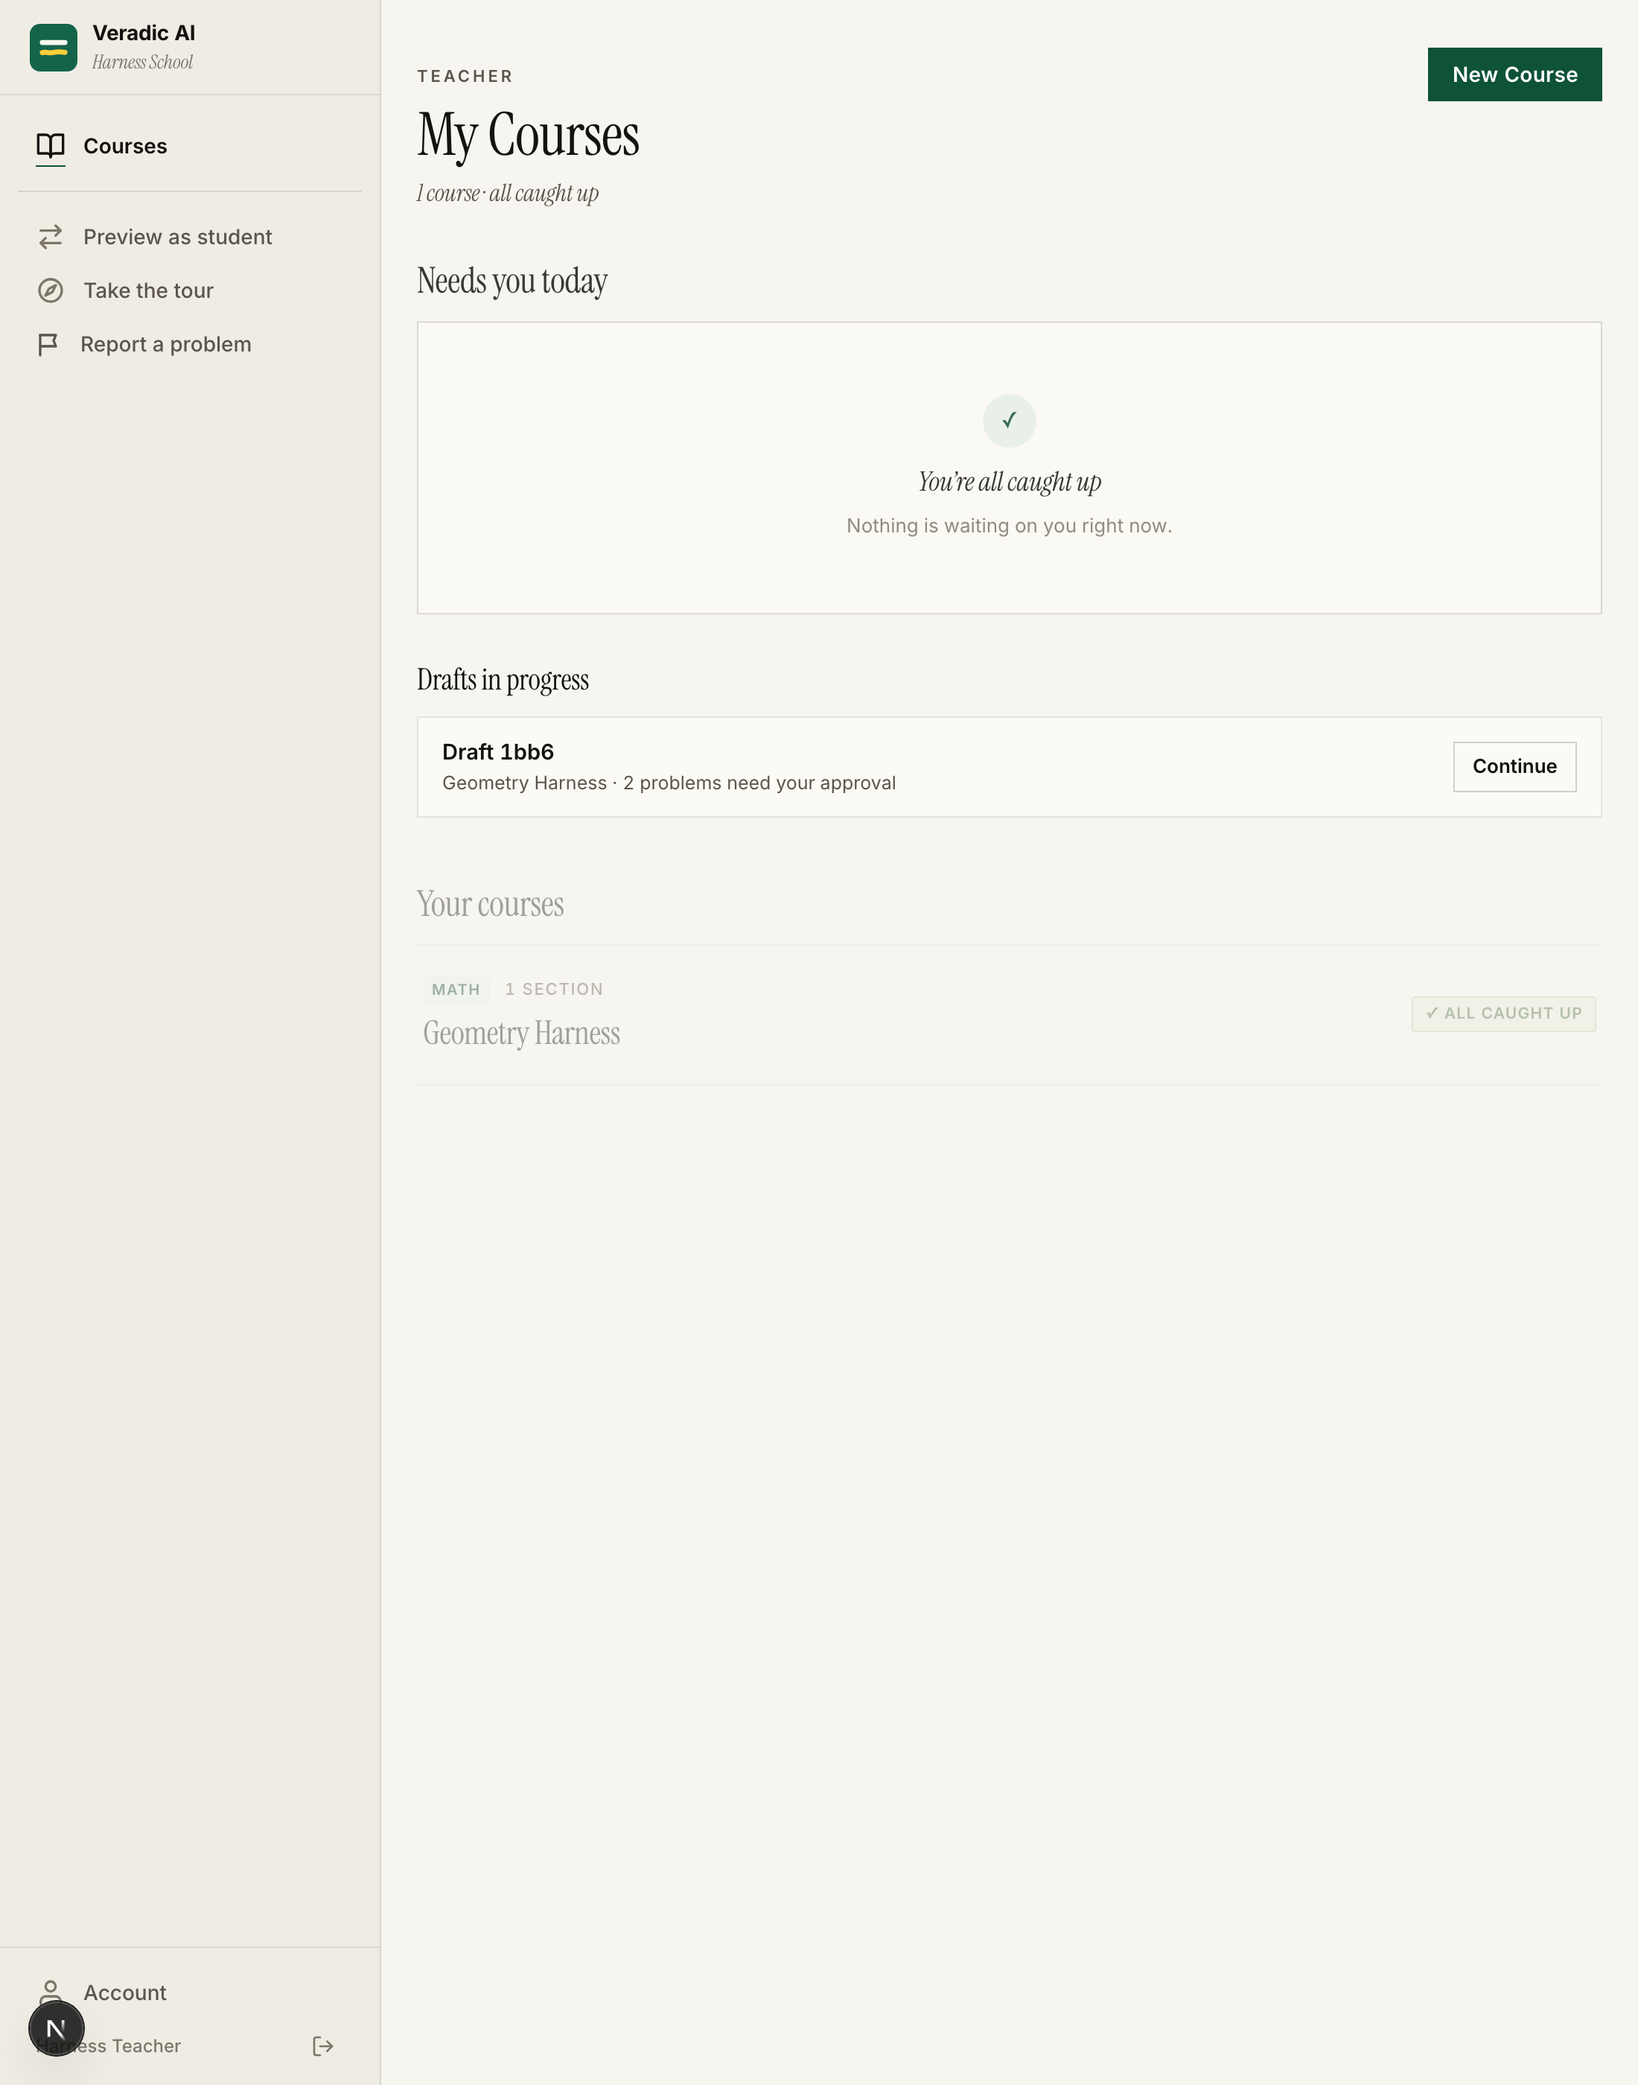
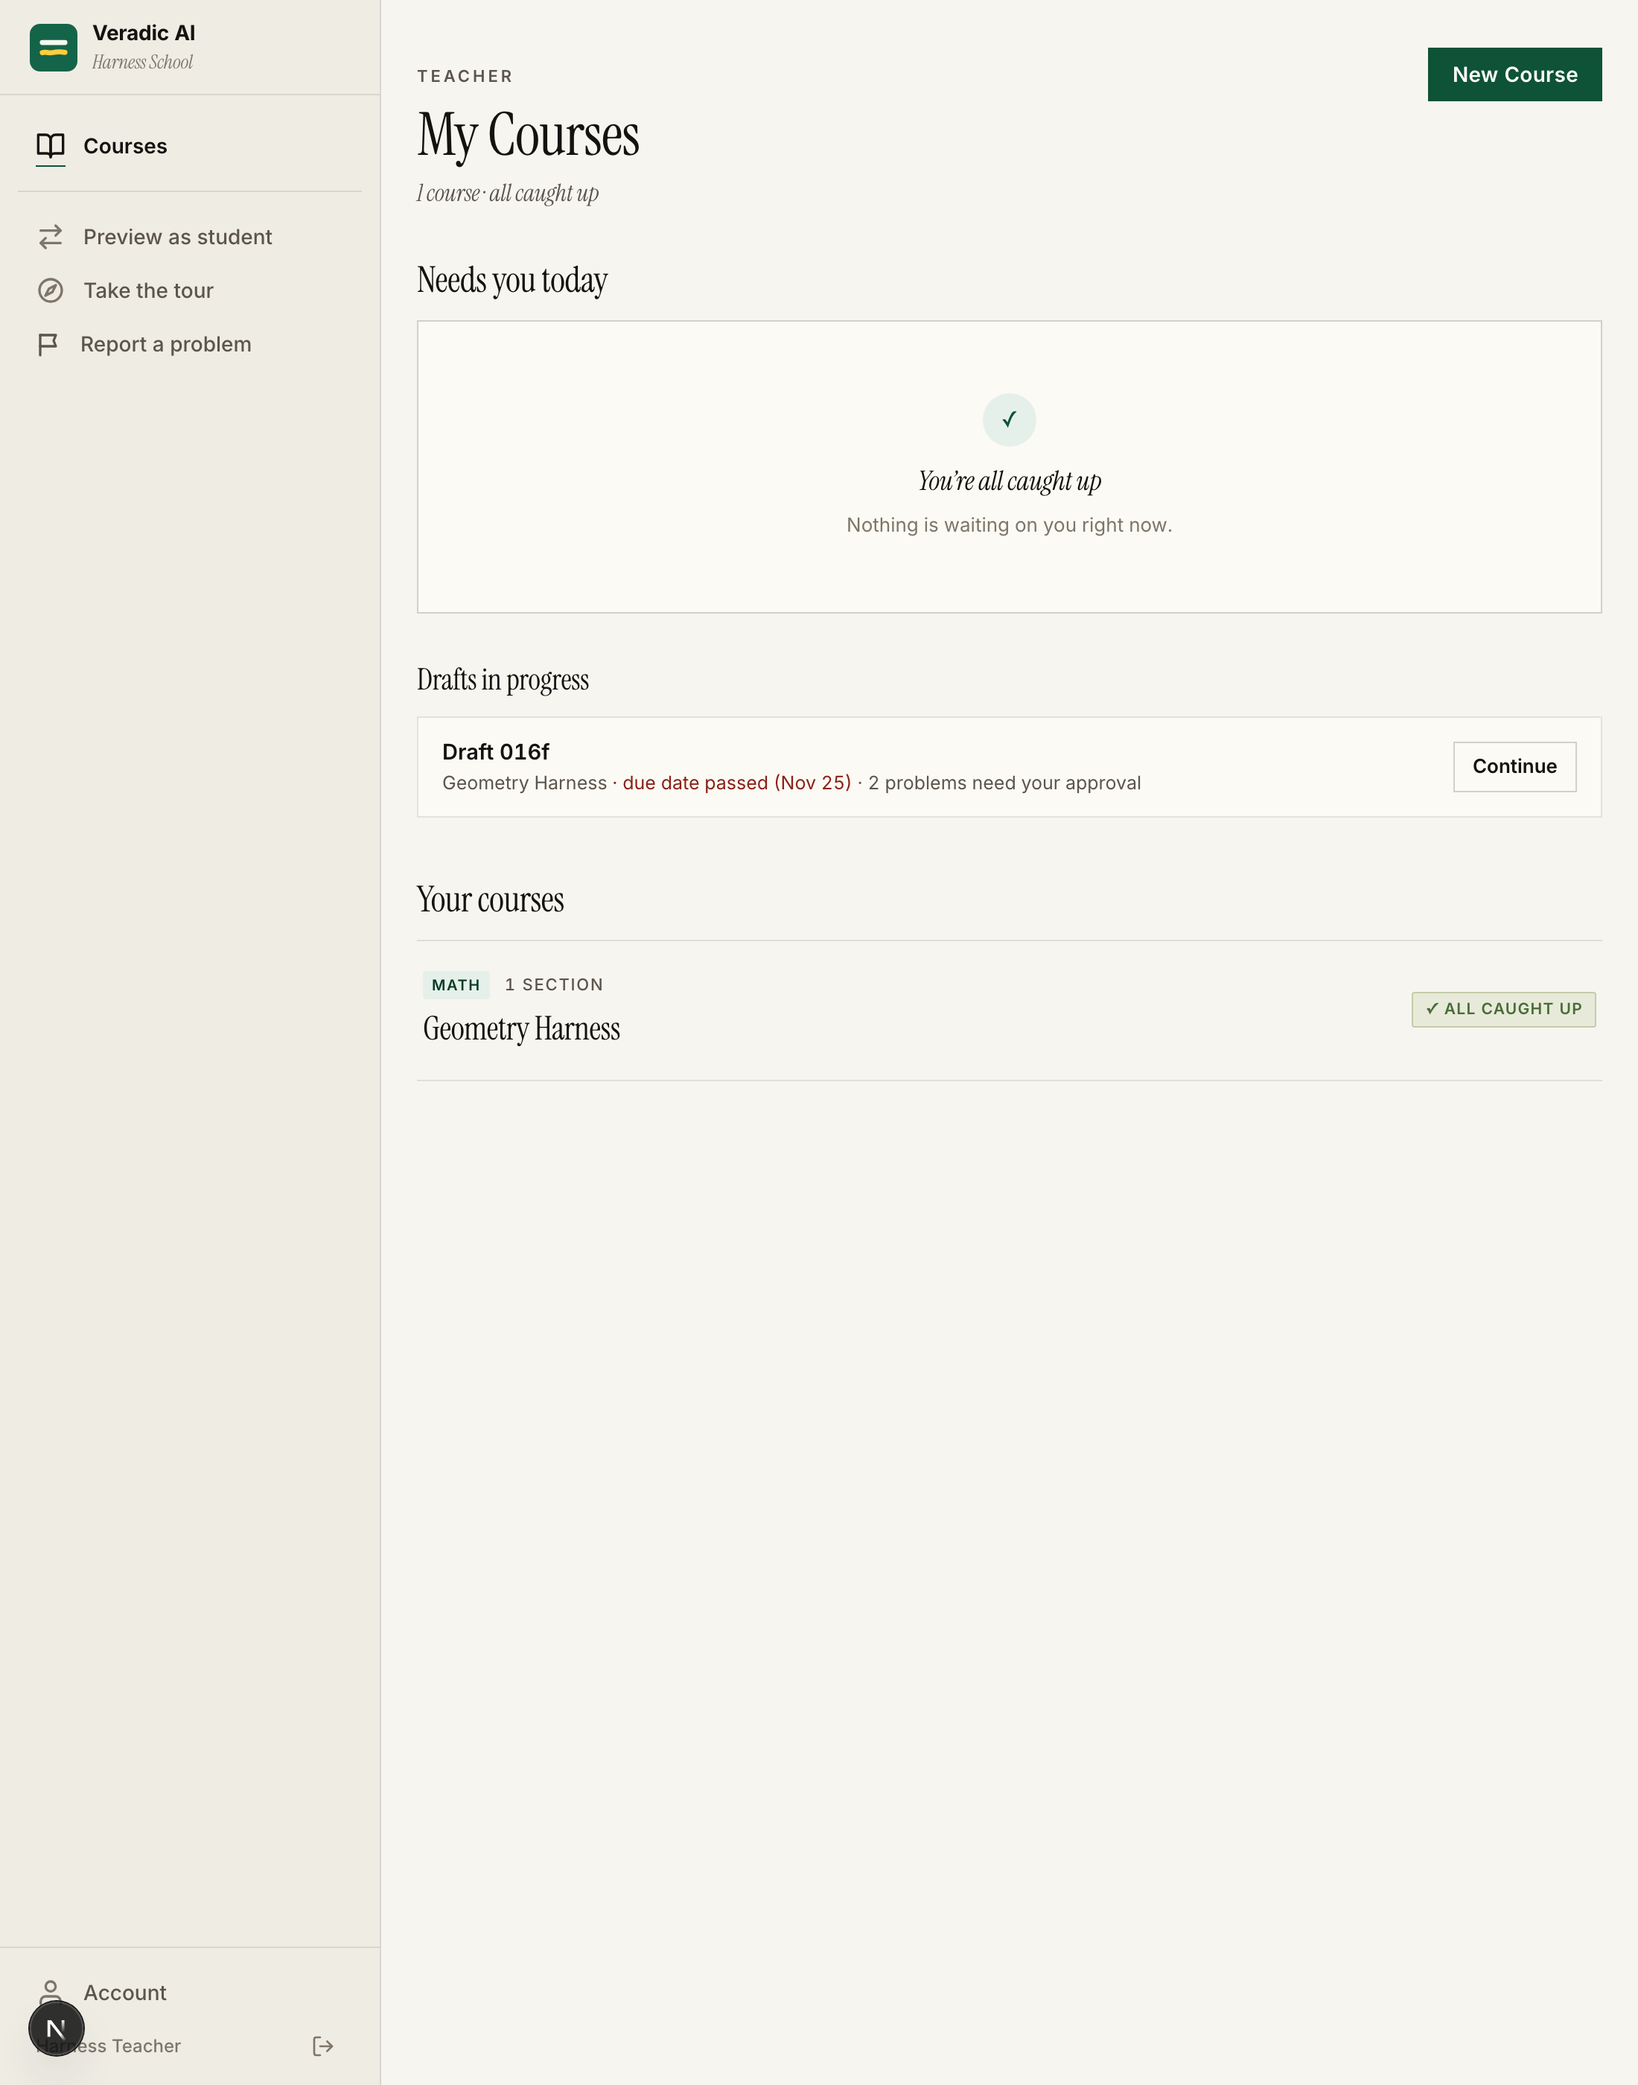
fix: drafts load with the courses, and a passed due date says so
The drafts line arrived after the course list and pushed it down; it
now loads alongside the courses. An unpublished draft whose due date is
behind it says "due date passed" in error ink instead of reading like
a date still to come.

diff --git a/web/src/components/school/teacher/_pieces/drafts-in-progress.tsx b/web/src/components/school/teacher/_pieces/drafts-in-progress.tsx
@@ -1,33 +1,19 @@
 "use client";
 
-import { useEffect, useState } from "react";
+import { useState } from "react";
 import Link from "next/link";
-import { teacher, type DraftHomework } from "@/lib/api";
 import { formatDate } from "@/lib/utils";
-import { draftDetail } from "./draft-detail";
+import type { Drafts } from "@/lib/api";
+import { draftDue, draftLeft } from "./draft-detail";
 
 /** Home's quiet line under "Needs you today": homework the teacher
  *  started and hasn't published, one click back in. Nothing when there's
- *  none, and nothing if the read fails — the queue above is what home is
- *  for, and every draft is still in its course's Homework tab. */
-export function DraftsInProgress() {
-  const [data, setData] = useState<{ drafts: DraftHomework[]; total: number } | null>(null);
-
-  useEffect(() => {
-    let cancelled = false;
-    teacher
-      .drafts()
-      .then((res) => {
-        if (!cancelled) setData(res);
-      })
-      .catch(() => undefined);
-    return () => {
-      cancelled = true;
-    };
-  }, []);
-
-  if (!data || data.drafts.length === 0) return null;
-  const more = data.total - data.drafts.length;
+ *  none (the page leaves it out if the read fails — every draft is still
+ *  in its course's Homework tab). */
+export function DraftsInProgress({ drafts, total }: Drafts) {
+  const [now] = useState(() => Date.now());
+  if (drafts.length === 0) return null;
+  const more = total - drafts.length;
   return (
     <section className="mt-8" aria-labelledby="drafts-in-progress">
       <h2
@@ -37,7 +23,9 @@ export function DraftsInProgress() {
         Drafts in progress
       </h2>
       <ul className="mt-3 overflow-hidden rounded-[--radius-md] border border-border-light bg-surface">
-        {data.drafts.map((d) => (
+        {drafts.map((d) => {
+          const due = draftDue(d.due_at, now, (iso) => formatDate(iso) ?? iso);
+          return (
           <li
             key={d.assignment_id}
             className="flex flex-col gap-2 border-b border-border-light px-4 py-3 last:border-b-0 sm:flex-row sm:items-center sm:gap-4"
@@ -45,7 +33,15 @@ export function DraftsInProgress() {
             <div className="min-w-0 flex-1">
               <p className="break-words text-[14.5px] font-semibold text-text-primary">{d.title}</p>
               <p className="mt-0.5 text-[12.5px] text-text-secondary">
-                {draftDetail(d, d.due_at ? formatDate(d.due_at) : null)}
+                {d.course_name}
+                {due && (
+                  <span className={due.passed ? "text-[color:var(--color-error)]" : undefined}>
+                    {" · "}
+                    {due.text}
+                  </span>
+                )}
+                {" · "}
+                {draftLeft(d)}
               </p>
             </div>
             <Link
@@ -56,7 +52,8 @@ export function DraftsInProgress() {
               Continue
             </Link>
           </li>
-        ))}
+          );
+        })}
       </ul>
       {more > 0 && (
         <p className="mt-2 text-xs text-text-muted">

diff --git a/web/src/components/school/teacher/_pieces/draft-detail.test.ts b/web/src/components/school/teacher/_pieces/draft-detail.test.ts
@@ -1,7 +1,7 @@
 import assert from "node:assert/strict";
 import { test } from "node:test";
 import type { DraftHomework } from "@/lib/api";
-import { draftDetail } from "./draft-detail.ts";
+import { draftDue, draftLeft } from "./draft-detail.ts";
 
 const draft = (over: Partial<DraftHomework> = {}): DraftHomework => ({
   assignment_id: "a",
@@ -15,14 +15,22 @@ const draft = (over: Partial<DraftHomework> = {}): DraftHomework => ({
 });
 
 test("problems waiting on approval lead what's left", () => {
-  assert.equal(
-    draftDetail(draft({ pending_review: 5, problem_count: 3 }), "Dec 1"),
-    "Algebra I · due Dec 1 · 5 problems need your approval",
-  );
-  assert.equal(draftDetail(draft({ pending_review: 1 }), null), "Algebra I · 1 problem needs your approval");
+  assert.equal(draftLeft(draft({ pending_review: 5, problem_count: 3 })), "5 problems need your approval");
+  assert.equal(draftLeft(draft({ pending_review: 1 })), "1 problem needs your approval");
 });
 
 test("otherwise it counts the problems, or says there are none", () => {
-  assert.equal(draftDetail(draft({ problem_count: 1 }), null), "Algebra I · 1 problem");
-  assert.equal(draftDetail(draft(), "Dec 1"), "Algebra I · due Dec 1 · no problems yet");
+  assert.equal(draftLeft(draft({ problem_count: 1 })), "1 problem");
+  assert.equal(draftLeft(draft()), "no problems yet");
+});
+
+test("a due date already behind an unpublished draft says it passed", () => {
+  const now = Date.parse("2026-11-27T12:00:00Z");
+  assert.equal(draftDue(null, now, String), null);
+  const ahead = draftDue("2026-12-01T12:00:00Z", now, () => "Dec 1");
+  assert.equal(ahead?.passed, false);
+  assert.equal(ahead?.text, "due Dec 1");
+  const behind = draftDue("2026-11-20T12:00:00Z", now, () => "Nov 20");
+  assert.equal(behind?.passed, true);
+  assert.equal(behind?.text, "due date passed (Nov 20)");
 });

diff --git a/web/src/app/(app)/school/teacher/page.tsx b/web/src/app/(app)/school/teacher/page.tsx
@@ -4,7 +4,7 @@ import { useEffect, useMemo, useRef, useState } from "react";
 import Link from "next/link";
 import { useRouter } from "next/navigation";
 import { motion } from "framer-motion";
-import { teacher, type TeacherCourse } from "@/lib/api";
+import { teacher, type Drafts, type TeacherCourse } from "@/lib/api";
 import { formatDueRelative } from "@/lib/utils";
 import { useAuthStore } from "@/stores/auth";
 import { TOUR_ACTIONS, TOUR_IDS, useTour, useTourAction } from "@/components/tour";
@@ -20,13 +20,21 @@ export default function SchoolTeacherDashboard() {
   const [loading, setLoading] = useState(true);
   const [showNewCourse, setShowNewCourse] = useState(false);
   const [error, setError] = useState<string | null>(null);
+  const [drafts, setDrafts] = useState<Drafts | null>(null);
 
   const reload = async () => {
     setLoading(true);
     setError(null);
     try {
-      const res = await teacher.courses();
+      // Drafts load with the courses, so their line is in place when the
+      // page appears rather than arriving later and pushing the course
+      // list down. A failed drafts read just leaves the line out.
+      const [res, d] = await Promise.all([
+        teacher.courses(),
+        teacher.drafts().catch(() => null),
+      ]);
       setCourses(res.courses);
+      setDrafts(d);
     } catch (e) {
       setError(e instanceof Error ? e.message : "Failed to load courses");
     } finally {
@@ -155,7 +163,7 @@ export default function SchoolTeacherDashboard() {
           the teacher actually has courses; a brand-new teacher gets the
           onboarding empty state above instead. */}
       {courses.length > 0 && <NeedsYouQueue />}
-      {courses.length > 0 && <DraftsInProgress />}
+      {courses.length > 0 && drafts && <DraftsInProgress {...drafts} />}
 
       {courses.length > 0 && (
       <motion.div

diff --git a/web/src/components/school/teacher/_pieces/draft-detail.ts b/web/src/components/school/teacher/_pieces/draft-detail.ts
@@ -1,17 +1,28 @@
 import type { DraftHomework } from "@/lib/api";
 
-/** A draft's one line under its title: course, due date, and what's
- *  left — generated problems waiting on the teacher's approval first,
- *  since that's what holds it back; else how many problems it has. */
-export function draftDetail(d: DraftHomework, due: string | null): string {
-  const parts = [d.course_name];
-  if (due) parts.push(`due ${due}`);
+/** A draft's due date as its line says it. A draft is unpublished, so a
+ *  date already behind it means students never saw it in time: said so,
+ *  for the error ink, rather than reading like a date still to come. */
+export function draftDue(
+  dueAt: string | null,
+  now: number,
+  format: (iso: string) => string,
+): { text: string; passed: boolean } | null {
+  if (!dueAt) return null;
+  const date = format(dueAt);
+  return new Date(dueAt).getTime() < now
+    ? { text: `due date passed (${date})`, passed: true }
+    : { text: `due ${date}`, passed: false };
+}
+
+/** What's left on a draft: generated problems waiting on the teacher's
+ *  approval first, since that's what holds it back; else how many
+ *  problems it has. */
+export function draftLeft(d: DraftHomework): string {
   if (d.pending_review > 0) {
-    parts.push(`${d.pending_review} problem${d.pending_review === 1 ? "" : "s"} need${d.pending_review === 1 ? "s" : ""} your approval`);
-  } else if (d.problem_count > 0) {
-    parts.push(`${d.problem_count} problem${d.problem_count === 1 ? "" : "s"}`);
-  } else {
-    parts.push("no problems yet");
+    const n = d.pending_review;
+    return `${n} problem${n === 1 ? "" : "s"} need${n === 1 ? "s" : ""} your approval`;
   }
-  return parts.join(" · ");
+  if (d.problem_count > 0) return `${d.problem_count} problem${d.problem_count === 1 ? "" : "s"}`;
+  return "no problems yet";
 }

diff --git a/web/src/lib/api.ts b/web/src/lib/api.ts
@@ -14,6 +14,7 @@ import { stablePhotoUrls } from "./submission-photos.ts";
 
 type Schemas = components["schemas"];
 export type DraftHomework = Schemas["DraftHomework"];
+export type Drafts = Schemas["Drafts"];
 
 const BASE_URL = process.env.NEXT_PUBLIC_API_URL ?? "http://localhost:8000/v1";
 const DEFAULT_TIMEOUT = 15_000;
@@ -1895,7 +1896,7 @@ export const teacher = {
   /** The teacher's draft homework, most recently edited first (a few;
    *  `total` counts them all). Home's "Drafts in progress". */
   drafts() {
-    return apiFetch<Schemas["Drafts"]>("/teacher/drafts");
+    return apiFetch<Drafts>("/teacher/drafts");
   },
   /** Grades tab roster — one row per (student × section). Only
    *  counts HWs that are published, assigned, and past due. */

diff --git a/tests/harness/flows_drafts_home.py b/tests/harness/flows_drafts_home.py
@@ -1,7 +1,8 @@
 """Flow: a draft homework is one click from home.
 
-Seeds a draft with two generated problems waiting for approval, then
-checks home lists it under "Drafts in progress" with that count, and
+Seeds a draft, two days past its due date, with two generated problems
+waiting for approval, then checks home lists it (in place when the
+course list is, and saying the due date passed) under "Drafts in progress" with that count, and
 Continue opens the homework.
 
 $0 and deterministic: the problems are seeded; no AI runs.
@@ -9,8 +10,10 @@ $0 and deterministic: the problems are seeded; no AI runs.
 
 from __future__ import annotations
 
+import asyncio
 import os
 import uuid
+from datetime import UTC, datetime, timedelta
 from typing import TYPE_CHECKING
 
 from playwright.async_api import TimeoutError as PlaywrightTimeoutError
@@ -31,7 +34,8 @@ async def _seed_draft(seed: Seed) -> tuple[str, str]:
     title = f"Draft {uuid.uuid4().hex[:4]}"
     async with get_session_factory()() as s:
         hw = Assignment(course_id=uuid.UUID(seed.course_id), teacher_id=uuid.UUID(seed.teacher_id),
-                        title=title, type="homework", status="draft", content={"problem_ids": []})
+                        title=title, type="homework", status="draft", content={"problem_ids": []},
+                        due_at=datetime.now(UTC) - timedelta(days=2))
         s.add(hw)
         await s.flush()
         for i in range(2):
@@ -55,6 +59,11 @@ async def drafts_home_flow(
     hw_id, hw_title = await _seed_draft(seed)
     shots = os.environ.get("HARNESS_FLOW_SHOTS")
     async with browser.authed_page(seed.teacher_token, seed.teacher_refresh) as page:
+        # A slow drafts read is where a late line would push the courses down.
+        async def slow(route) -> None:  # type: ignore[no-untyped-def]
+            await asyncio.sleep(1.5)
+            await route.continue_()
+        await page.route("**/v1/teacher/drafts", slow)
         await page.goto(f"{web_base.rstrip('/')}/school/teacher", wait_until="domcontentloaded",
                         timeout=_TIMEOUT_MS)
         skip = page.get_by_role("button", name="Skip for now")
@@ -65,14 +74,22 @@ async def drafts_home_flow(
         except PlaywrightTimeoutError:
             pass
         drafts = page.locator('section[aria-labelledby="drafts-in-progress"]')
+        # The line is there when the courses are, not arriving after them
+        # and pushing the course list down under the teacher's finger.
+        await page.get_by_role("heading", name="Your courses").wait_for(timeout=_TIMEOUT_MS)
+        if await drafts.count() == 0:
+            issues.append("the drafts line arrived after the course list, pushing it down")
         row = drafts.locator("li", has_text=hw_title)
         try:
             await row.wait_for(timeout=_TIMEOUT_MS)
         except PlaywrightTimeoutError:
             issues.append("home doesn't list the draft under Drafts in progress")
             return flows.FlowResult(name, title, False, issues)
-        if "2 problems need your approval" not in await row.inner_text():
+        line = await row.inner_text()
+        if "2 problems need your approval" not in line:
             issues.append("the draft's line doesn't say 2 problems need approval")
+        if "due date passed" not in line:
+            issues.append("a draft whose due date passed reads like one still to come")
         if shots:
             os.makedirs(shots, exist_ok=True)
             await page.screenshot(path=os.path.join(shots, "drafts-home.png"), full_page=True)
